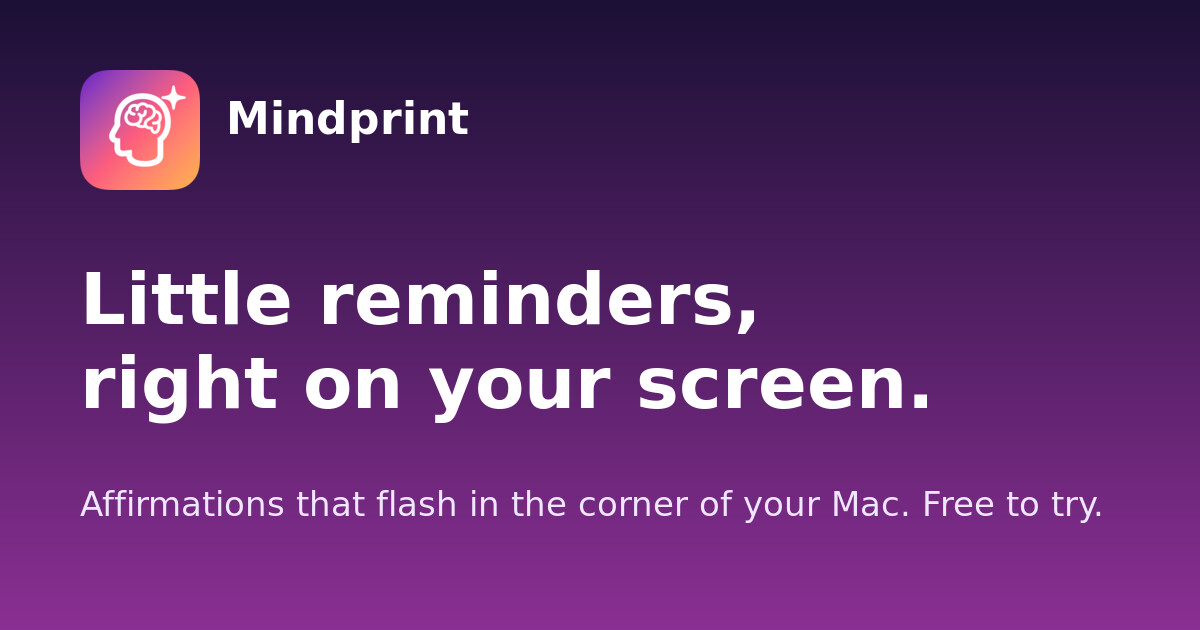
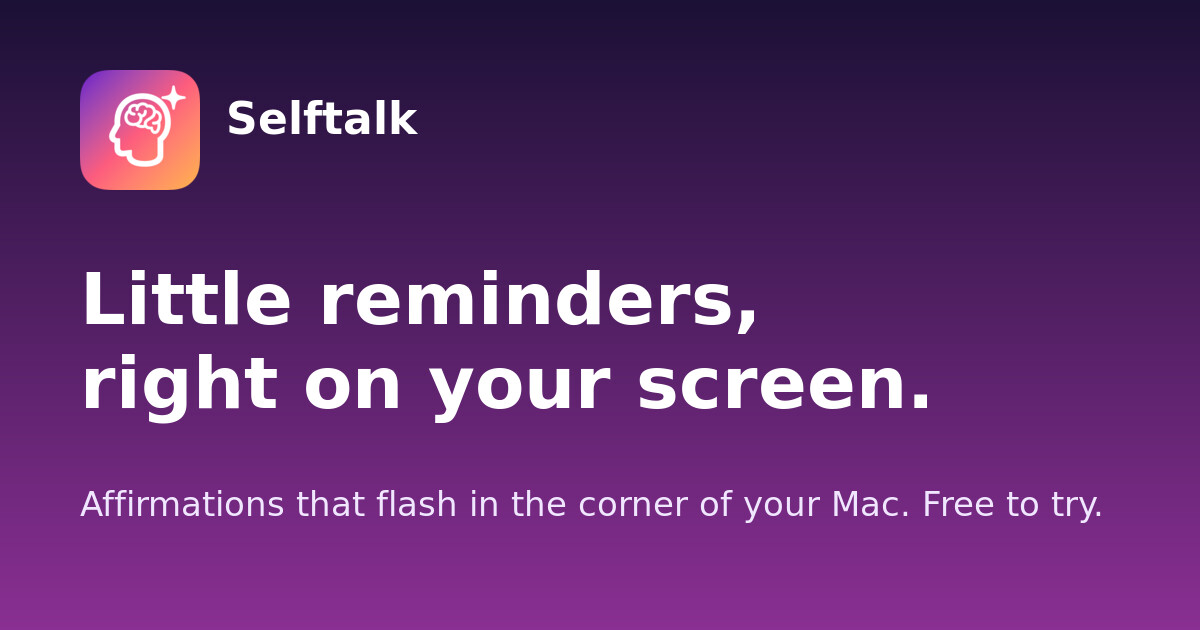
Selftalk landing page

Changed region(s): [[0.185, 0.1508, 0.4008, 0.2413]]

diff --git a/docs/index.html b/docs/index.html
@@ -5,27 +5,27 @@
 <meta name="viewport" content="width=device-width, initial-scale=1, viewport-fit=cover">
 <meta name="theme-color" content="#fbfbfd" media="(prefers-color-scheme: light)">
 <meta name="theme-color" content="#0e0e13" media="(prefers-color-scheme: dark)">
-<title>Mindprint — gentle on-screen reminders for your Mac</title>
-<meta name="description" content="Mindprint flashes short, believable affirmations in the corner of your Mac, in your language and in a voice you choose: formal, casual, witty or meme. Free to try, with a 7-day Premium trial.">
-<link rel="canonical" href="https://yosefsun.github.io/mindprint-releases/">
+<title>Selftalk — gentle on-screen reminders for your Mac</title>
+<meta name="description" content="Selftalk flashes short, believable affirmations in the corner of your Mac, in your language and in a voice you choose: formal, casual, witty or meme. Free to try, with a 7-day Premium trial.">
+<link rel="canonical" href="https://yosefsun.github.io/selftalk-releases/">
 <link rel="icon" href="favicon-32.png" type="image/png" sizes="32x32">
 <link rel="icon" href="favicon.ico" sizes="any">
 <link rel="apple-touch-icon" href="apple-touch-icon.png">
-<meta name="apple-mobile-web-app-title" content="Mindprint">
+<meta name="apple-mobile-web-app-title" content="Selftalk">
 <meta property="og:type" content="website">
-<meta property="og:site_name" content="Mindprint">
-<meta property="og:url" content="https://yosefsun.github.io/mindprint-releases/">
-<meta property="og:title" content="Mindprint — little reminders, right on your screen">
+<meta property="og:site_name" content="Selftalk">
+<meta property="og:url" content="https://yosefsun.github.io/selftalk-releases/">
+<meta property="og:title" content="Selftalk — little reminders, right on your screen">
 <meta property="og:description" content="Affirmations that flash in the corner of your Mac, in your language and your voice. Built on research, not hype. Free to try.">
-<meta property="og:image" content="https://yosefsun.github.io/mindprint-releases/og.jpg">
+<meta property="og:image" content="https://yosefsun.github.io/selftalk-releases/og.jpg">
 <meta property="og:image:type" content="image/jpeg">
 <meta property="og:image:width" content="1200">
 <meta property="og:image:height" content="630">
-<meta property="og:image:alt" content="Mindprint: little reminders, right on your screen">
+<meta property="og:image:alt" content="Selftalk: little reminders, right on your screen">
 <meta name="twitter:card" content="summary_large_image">
-<meta name="twitter:title" content="Mindprint — little reminders, right on your screen">
+<meta name="twitter:title" content="Selftalk — little reminders, right on your screen">
 <meta name="twitter:description" content="Affirmations that flash in the corner of your Mac. Free to try.">
-<meta name="twitter:image" content="https://yosefsun.github.io/mindprint-releases/og.jpg">
+<meta name="twitter:image" content="https://yosefsun.github.io/selftalk-releases/og.jpg">
 <style>
   :root {
     --bg: #fbfbfd; --fg: #17171c; --muted: #5d5d6b; --card: #ffffff; --line: #e7e7ee;
@@ -156,23 +156,23 @@
 <body>
 <header class="top">
   <div class="wrap top-in">
-    <a class="logo" href="#"><img src="img/icon.png" alt="">Mindprint</a>
-    <a class="pill" href="https://github.com/yosefsun/mindprint-releases/releases/latest/download/Mindprint.zip">Download</a>
+    <a class="logo" href="#"><img src="img/icon.png" alt="">Selftalk</a>
+    <a class="pill" href="https://github.com/yosefsun/selftalk-releases/releases/latest/download/Selftalk.zip">Download</a>
   </div>
 </header>
 <div class="wrap">
 
   <div class="hero">
-    <img class="app" src="img/icon.png" alt="Mindprint app icon">
+    <img class="app" src="img/icon.png" alt="Selftalk app icon">
     <h1>Little reminders, <span>right on your screen</span>.</h1>
-    <p class="lead">Mindprint flashes short, believable affirmations in the corner of your Mac, in your language and in the voice you pick: formal, casual, witty or meme. Built on what research says works, not on promises of “reprogramming your brain”.</p>
-    <a class="cta dl" href="https://github.com/yosefsun/mindprint-releases/releases/latest/download/Mindprint.zip">
+    <p class="lead">Selftalk flashes short, believable affirmations in the corner of your Mac, in your language and in the voice you pick: formal, casual, witty or meme. Built on what research says works, not on promises of “reprogramming your brain”.</p>
+    <a class="cta dl" href="https://github.com/yosefsun/selftalk-releases/releases/latest/download/Selftalk.zip">
       <svg viewBox="0 0 24 24" fill="currentColor" aria-hidden="true"><path d="M16.37 12.73c-.03-2.56 2.09-3.8 2.19-3.86-1.2-1.75-3.06-1.99-3.71-2.01-1.58-.16-3.09.93-3.89.93-.8 0-2.03-.91-3.34-.88-1.72.03-3.3 1-4.19 2.53-1.79 3.1-.46 7.69 1.28 10.21.85 1.23 1.86 2.61 3.19 2.56 1.28-.05 1.77-.83 3.32-.83s1.99.83 3.34.8c1.38-.02 2.26-1.25 3.1-2.49.98-1.43 1.38-2.81 1.4-2.88-.03-.01-2.68-1.03-2.69-4.08zM13.83 5.2c.71-.86 1.19-2.05 1.06-3.24-1.02.04-2.26.68-2.99 1.54-.66.76-1.23 1.97-1.08 3.14 1.14.09 2.3-.58 3.01-1.44z"/></svg>
       Download for Mac
     </a>
     <ul class="chips"><li>Free to try</li><li>7-day Premium trial, no card</li><li>macOS 14+</li><li>No account, no tracking</li><li>Updates itself</li></ul>
-    <div class="mobile-note">📱 Mindprint runs on your Mac. Open this page on your Mac to download it.</div>
-    <div class="shot"><img src="img/witty-overlay-confidence.jpg" alt="A Mindprint reminder on screen: Your comfort zone called. Nobody misses it." width="1400" height="653"></div>
+    <div class="mobile-note">📱 Selftalk runs on your Mac. Open this page on your Mac to download it.</div>
+    <div class="shot"><img src="img/witty-overlay-confidence.jpg" alt="A Selftalk reminder on screen: Your comfort zone called. Nobody misses it." width="1400" height="653"></div>
   </div>
 
   <section>
@@ -188,7 +188,7 @@
 
   <section>
     <h2>A nudge, not a notification</h2>
-    <p class="sub">Mindprint stays out of your way until it's useful, then gets out of it again.</p>
+    <p class="sub">Selftalk stays out of your way until it's useful, then gets out of it again.</p>
     <div class="grid">
       <div class="card"><div class="ico">🎯</div><h3>Goals that matter to you</h3><p>Confidence, success, calm, focus, self-worth, gratitude, health and more. Switch on the ones you care about; lines are mixed and never repeat back to back.</p></div>
       <div class="card"><div class="ico">🌍</div><h3>Six languages</h3><p>English, עברית, Español, 中文, हिन्दी and العربية, with proper right-to-left layout for Hebrew and Arabic.</p></div>
@@ -203,18 +203,18 @@
     <div class="split">
       <div>
         <h2 style="text-align:left">Built on research, honest about limits</h2>
-        <p style="color:var(--muted)">NLP itself has little evidence behind it, so Mindprint doesn't pretend otherwise. It uses what is supported: repetition and priming, believable self-affirmation, talking to yourself in the second person, and “when X, I will Y” plans. Lines are realistic (“I'm becoming bolder every day”), never over-the-top (“I am perfect”), because those can backfire.</p>
+        <p style="color:var(--muted)">NLP itself has little evidence behind it, so Selftalk doesn't pretend otherwise. It uses what is supported: repetition and priming, believable self-affirmation, talking to yourself in the second person, and “when X, I will Y” plans. Lines are realistic (“I'm becoming bolder every day”), never over-the-top (“I am perfect”), because those can backfire.</p>
         <p style="color:var(--muted)">It is a self-help reminder tool, not therapy or a medical device. The full reading list ships inside the app.</p>
       </div>
-      <div class="shot"><img src="img/goals.png" alt="Mindprint settings: choose your goals, language and writing style" width="1596" height="1230"></div>
+      <div class="shot"><img src="img/goals.png" alt="Selftalk settings: choose your goals, language and writing style" width="1596" height="1230"></div>
     </div>
   </section>
 
   <section>
     <h2>Safety first</h2>
-    <p class="sub">Flashing content can affect people with photosensitive epilepsy, so Mindprint is conservative on purpose.</p>
+    <p class="sub">Flashing content can affect people with photosensitive epilepsy, so Selftalk is conservative on purpose.</p>
     <div class="grid">
-      <div class="card"><div class="ico">⚠</div><h3>Notice before first use</h3><p>You must read and accept a short safety notice before anything is shown. It stays in Settings.</p></div>
+      <div class="card"><div class="ico">⚠</div><h3>Notice before Flash</h3><p>The default is a gentle fade. The first time you switch to quick Flash, you must read and accept a short safety notice. It stays in Settings.</p></div>
       <div class="card"><div class="ico">⏱</div><h3>Never more than one per 10 s</h3><p>Far below the 3-flashes-a-second limit of accessibility guidelines (WCAG 2.3.1), and no strobing, ever.</p></div>
       <div class="card"><div class="ico">🌈</div><h3>Soft, slow color</h3><p>Rainbow mode is a slow drift (one cycle takes at least 4 s). Gentle mode fades in and out, and turns on automatically with “Reduce motion”.</p></div>
     </div>
@@ -233,7 +233,7 @@
 
   <section id="premium">
     <h2>Free, with a 7-day Premium trial</h2>
-    <p class="sub">Try everything for a week, no card needed. When the trial ends Mindprint simply switches to the Free plan, and nothing you made is deleted.</p>
+    <p class="sub">Try everything for a week, no card needed. When the trial ends Selftalk simply switches to the Free plan, and nothing you made is deleted.</p>
     <div class="plans-wrap">
       <table class="plans">
         <tr><th></th><th>Free</th><th>Premium</th></tr>
@@ -255,28 +255,28 @@
     <h2>Install in a minute</h2>
     <p class="sub">This early version is signed but not yet notarized by Apple, so macOS asks you to confirm the first time.</p>
     <ol class="steps">
-      <li><b>Download and open the zip</b><span>Drag <b style="display:inline">Mindprint</b> into your Applications folder.</span></li>
-      <li><b>Open it the first time</b><span>Double-click Mindprint. If macOS says it can't verify the developer, open <b style="display:inline">System Settings → Privacy &amp; Security</b> and click <b style="display:inline">Open Anyway</b>.</span></li>
+      <li><b>Download and open the zip</b><span>Drag <b style="display:inline">Selftalk</b> into your Applications folder.</span></li>
+      <li><b>Open it the first time</b><span>Double-click Selftalk. If macOS says it can't verify the developer, open <b style="display:inline">System Settings → Privacy &amp; Security</b> and click <b style="display:inline">Open Anyway</b>.</span></li>
       <li><b>Read the safety notice</b><span>Then pick a language, a writing style and the goals you care about. Your first reminder appears a moment later.</span></li>
-      <li><b>Find it in the menu bar</b><span>The ✨ icon pauses, shows one now, or opens Settings. Mindprint also lives in your Dock and ⌘Tab, and keeps itself up to date.</span></li>
+      <li><b>Find it in the menu bar</b><span>The ✨ icon pauses, shows one now, or opens Settings. Selftalk also lives in your Dock and ⌘Tab, and keeps itself up to date.</span></li>
     </ol>
   </section>
 
   <div class="final">
     <h2>Be kind to yourself, on a schedule.</h2>
     <p class="sub">Free to try for Mac. Updates install automatically.</p>
-    <a class="cta dl" href="https://github.com/yosefsun/mindprint-releases/releases/latest/download/Mindprint.zip">Download Mindprint</a>
+    <a class="cta dl" href="https://github.com/yosefsun/selftalk-releases/releases/latest/download/Selftalk.zip">Download Selftalk</a>
     <div class="fine" id="ver">Latest version</div>
   </div>
 
   <footer>
-    <span>© 2026 Mindprint · Self-help reminder tool, not a medical device.</span>
-    <span><a href="https://github.com/yosefsun/mindprint-releases/releases">Release notes</a></span>
+    <span>© 2026 Selftalk · Self-help reminder tool, not a medical device.</span>
+    <span><a href="https://github.com/yosefsun/selftalk-releases/releases">Release notes</a></span>
   </footer>
 </div>
 <script>
   // Show the latest version number from the update feed (best effort; the page works without it).
-  fetch("https://api.github.com/repos/yosefsun/mindprint-releases/releases/latest")
+  fetch("https://api.github.com/repos/yosefsun/selftalk-releases/releases/latest")
     .then(function (r) { return r.ok ? r.json() : null; })
     .then(function (j) { if (j && j.tag_name) document.getElementById("ver").textContent = "Latest version " + j.tag_name.replace(/^v/, ""); })
     .catch(function () {});

diff --git a/README.md b/README.md
@@ -1,7 +1,7 @@
-# Mindprint
+# Selftalk
 
 Gentle on-screen affirmations for your Mac, in your language and your voice (formal, casual, witty or meme).
 
-**[Download the latest version](https://github.com/yosefsun/mindprint-releases/releases/latest/download/Mindprint.zip)** · [Website](https://yosefsun.github.io/mindprint-releases/)
+**[Download the latest version](https://github.com/yosefsun/selftalk-releases/releases/latest/download/Selftalk.zip)** · [Website](https://yosefsun.github.io/selftalk-releases/)
 
-This repository hosts the public downloads and the update feed (`appcast.xml`) for Mindprint. Free to try, with a 7-day Premium trial. Self-help reminder tool, not a medical device.
+This repository hosts the public downloads and the update feed (`appcast.xml`) for Selftalk. Free to try, with a 7-day Premium trial. Self-help reminder tool, not a medical device.
